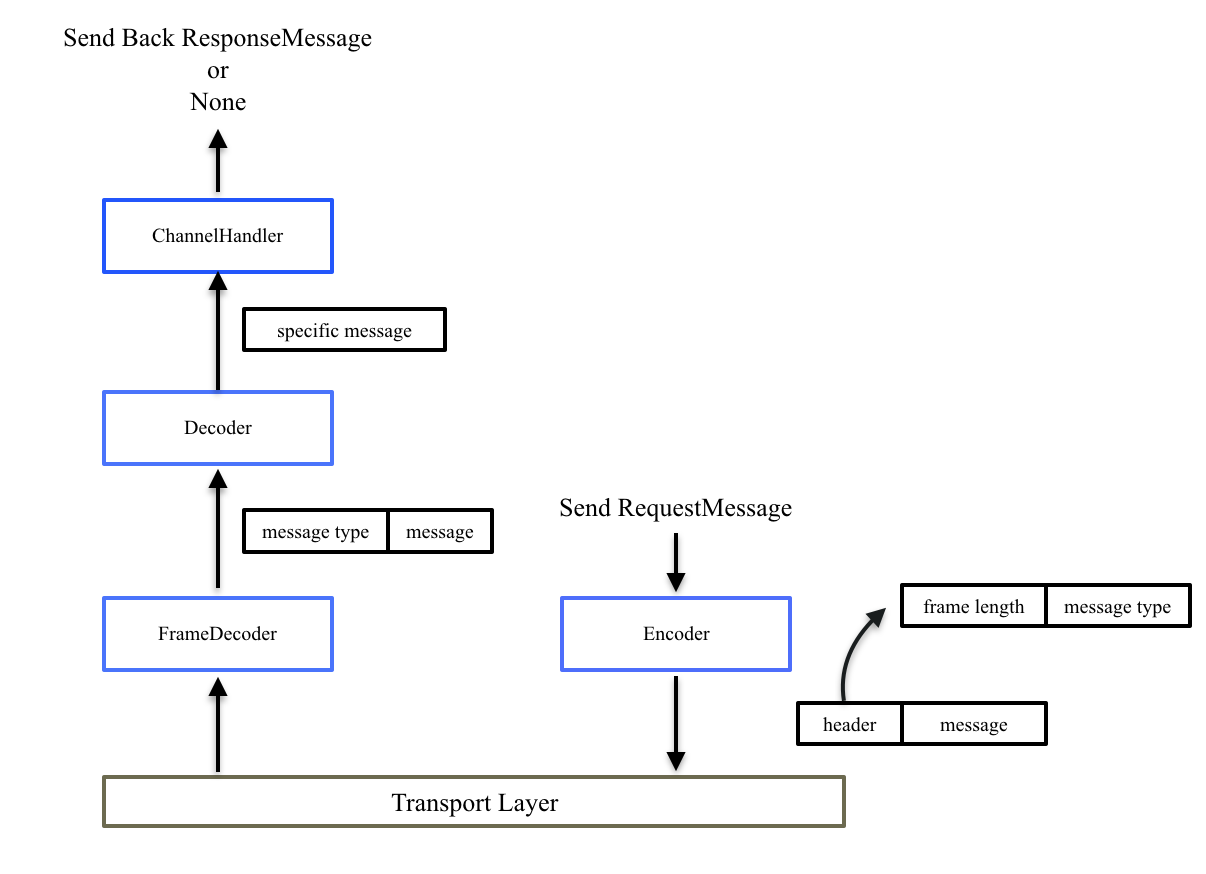
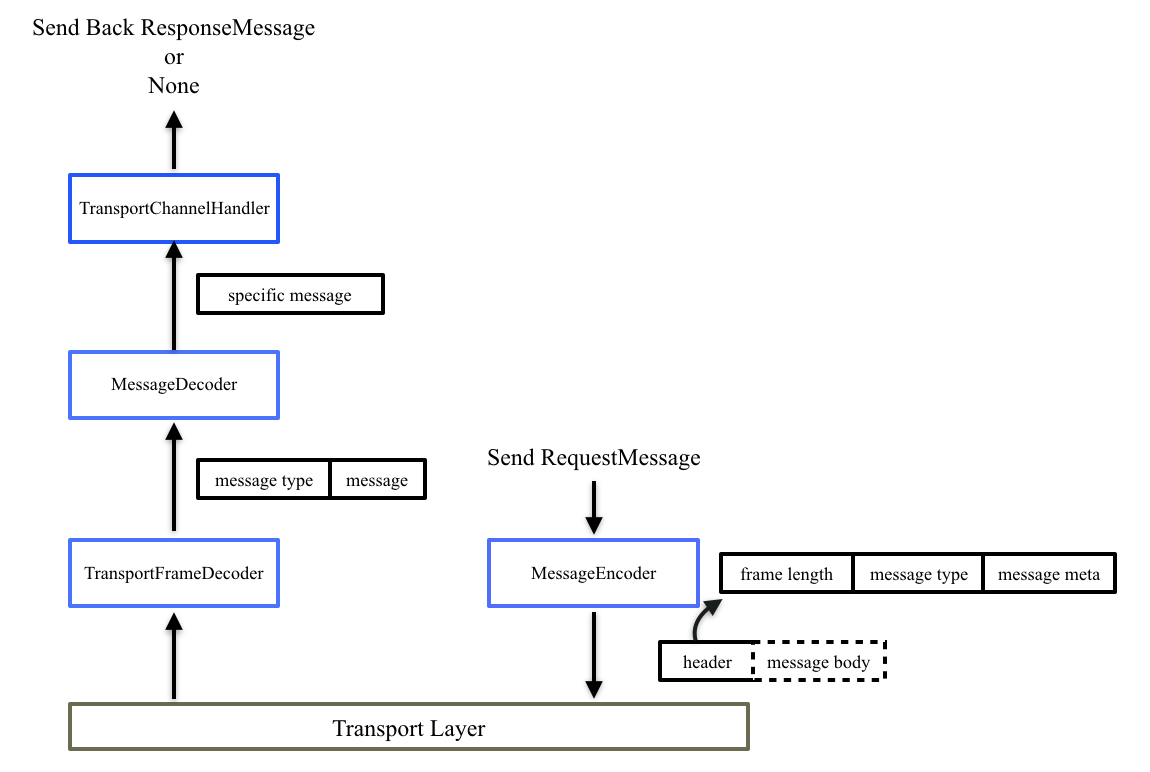
add spark-network

diff --git a/source/_posts/spark-network.md b/source/_posts/spark-network.md
@@ -1,0 +1,129 @@
+---
+title: 深入理解Spark(四)：Spark 底层网络模块
+date: 2016-11-12  22:11:29
+categories: spark
+tags:
+  - spark
+  - network
+  - 大数据
+  - 分布式计算
+---
+
+对于分布式系统来说，网络是最基本的一环，其设计的好坏直接影响到整个分布式系统的稳定性及可用性。为此，Spark专门独立出基础网络模块spark-network，为上层RPC、Shuffle数据传输、RDD Block同步以及资源文件传输等提供可靠的网络服务。在spark-1.6以前，RPC是单独通过akka实现，数据以及文件传输是通过netty实现，然而akka实质上底层也是采用netty实现，对于一个优雅的工程师来说，不会在系统中同时使用具有重复功能的框架，否则会使得系统越来越重，所以自spark-1.6开始，通过netty封装了一套简洁的类似于akka actor模式的RPC接口，逐步抛弃akka这个大框架。从spark-2.0起，所有的网络功能都是通过netty来实现。<!--more-->
+
+## 系统抽象
+
+在介绍spark网络模块前，我们先温习下netty的基本工作流程。无论是服务器还是客户端都会关联一个channel(socket)，channel上会绑定一个pipeline，pipeline绑定若干个handler，用来专门用来处理和业务有关的东西，handler有DownHandler和UpHandler两种，DownHandler用来处理发包，UpHandler用来处理收包，大致过程如下图所示。
+
+<img src="/images/spark-network-netty-overview.png" width="500" height="500" alt="spark-network-netty-overview" align=center />
+
+Spark的底层网络实现也是遵循上图所示流程，其总体实现流程如下图所示。客户端发送请求消息，经过Encoder(一种DownHandler)编码，加上包头信息，再通过网络发给服务端，服务端收到消息后，首先经过TransportFrameDecoder(一种UpHandler)处理粘包拆包，得到消息类型和消息体，然后经过Decoder解析消息类型，得到一个个具体的请求消息，最后由TransportChannelHandler处理具体的请求消息，并根据具体的消息类型判断是否返回一个响应。类似地，响应消息传给客户端也是先经过Encoder编码，客户端先通过TransportFrameDecoder、Decoder解包消息，再通过TransportChannelHandler处理具体的响应消息。
+
+<img src="/images/spark-network-basic.png" width="500" height="500" alt="spark-network-basic" align=center />
+
+整个网络模型非常清晰简单，最核心的当属消息抽象以及如何定义消息传输和处理，即上图中的Message的定义以及编解码传输等，下面详细介绍spark网络模块的消息抽象以及相关handler的定义。
+
+### 消息抽象
+
+总结起来，Spark中定义三种类型的消息：RPC消息、ChunkFetch消息以及Stream消息。Message是这些消息的抽象接口，它定义了三个关键接口，分别得到消息类型、消息体以及判断消息体是否编码在header中，消息体统一由ManagedBuffer表示，ManagedBuffer抽象了JAVA NIO ByteBuffer、Netty ByteBuf以及File Segment，所以无论是ByteBuffer、ByteBuf还是File Segment，都可以表示为ManagedBuffer。如下图列出所有spark中涉及到的具体消息，下面分别详细阐述各种消息。
+
+<img src="/images/spark-network-protocol.png" width="500" height="400" alt="spark-network-protocol" align=center />
+
+RPC消息用于抽象所有spark中涉及到RPC操作时需要传输的消息，通常这类消息很小，一般都是些控制类消息，在spark-1.6以前，RPC都是通过akka来实现的，自spark-1.6开始逐渐把akka剔除，通过netty实现，所以在spark-network公共模块中定义该类消息，其包括RpcRequest、OneWayMessage、RpcResponse以及RpcFailure四种消息。RpcRequest封装RPC请求消息，这类RPC请求是需要得到一个RPC响应的，RpcRequest除了消息体外，还包括一个requestId字段，用于唯一标识一个RPC请求，与RpcRequest对应地，有两种RPC响应消息，RpcResponse是RPC调用正常返回的响应消息，RpcFailure是RPC调用异常返回的响应消息，同样地，它们除了消息体外也包括requestId字段，该字段用于对应RpcRequest。OneWayMessage作为另一种RPC请求消息，但是这类RPC请求是不需要响应的，所以它只包含消息体，不需要诸如requestId等字段来唯一标识，该消息被发送后可不用管它。
+
+ChunkFetch消息用于抽象所有spark中涉及到数据拉取操作时需要传输的消息，它用于shuffle数据以及RDD Block数据传输。在shuffle阶段，reduce task会去拉取map task结果中的对应partition数据，这需要发起一个ChunkFetch；另外，当RDD被缓存后，如果节点上没有所需的RDD Block，则会发起一个ChunkFetch拉取其他节点上的RDD Block。ChunkFetch消息包括ChunkFetchRequest、ChunkFetchSuccess以及ChunkFetchFailure三种消息。ChunkFetchRequest封装ChunkFetch请求消息，其只包括StreamChunkId字段，没有消息体，StreamChunkId包括streamId和chunkIndex两个字段，streamId标识这次chunk fetch，chunkIndex标识fetch的数据块，通常一次fetch可能会fetch多个chunk。ChunkFetchSuccess是成功Fetch后的响应消息，ChunkFetchFailure是Fetch失败的响应消息，它们包含了Fetch的消息体外，还包括StreamChunkId，以对应ChunkFetchRequest。
+
+Stream消息很简单，主要用于driver到executor传输jar、file文件等。Stream消息包括StreamRequest、StreamResponse以及StreamFailure三种消息，其中StreamRequest表示Stream请求消息，只包含一个streamId，标识这个请求。StreamResponse表示Stream成功响应消息，包含streamId以及响应的字节数，并后面跟数据内容，实际使用时，客户端会根据响应中的字节数进一步获取实际内容。StreamFailure表示Stream失败的响应消息，包含streamId以及异常信息。executor需要获取相关jar包或file文件时，会发起一个StreamRequest消息给driver，driver会返回一个StreamResponse，executor根据响应中的字节数来进一步去截获后续数据内容。
+
+### Handler定义
+
+一个message从被发送到被接收需要经过"MessageEncoder->网络->TransportFrameDecoder->MessageDecoder"，下面按照这一过程详细阐述各handler的作用。
+
+一个message进入网络前，需要经过MessageEncoder编码，加上包头信息，以便后续收包时正确粘包拆包。头信息主要是包括三部分：
+* 整个包的长度
+* 消息类型
+* 除消息体外的消息元数据，例如RpcRequest消息的元数据信息包括requestId和消息长度bodysize
+
+<img src="/images/spark-network-messagewithheader.png" width="400" height="200" alt="message-with-header" align=center />
+
+经过上述编码后，一个个Message被编码成一个个MessageWithHeader发送到网络中，接收端收到数据后，首先通过TransportFrameDecoder和MessageDecoder来解码出一个个具体的Message，这里就涉及到粘包拆包问题，这也是为什么在编码阶段在头部加上frame length的原因。TransportFrameDecoder在解码过程中，首先读取8字节的frame length(Long型)，用frame length减去8就是除frame length外其他部分的长度，即为message type、message meta、message body三部分的长度，循环读取直到这个长度，把读到的Bytebuf交给MessagerDecoder，MessagerDecoder首先解析出message type，根据message type去反序列化(实例化)出具体的Message，例如message type如果是RpcRequest，那么则继续解析requestId和body size，根据body size解析后续字节得到body，并构造出RpcRequest对象。反序列化得到的message对象会交给TransportChannelHandler，TransportChannelHandler里封装了TransportRequestHandler和TransportResponseHandler，分别处理RequestMessage和ResponseMessage，在服务端，TransportChannelHandler一般处理RequestMessage，在客户端，TransportChannelHandler一般处理ResponseMessage。
+
+<img src="/images/spark-network-handler.png" width="600" height="300" alt="spark-network-handler" align=center />
+
+## 系统消息流程
+
+根据上述系统抽象可以看出，spark-network将RPC、ChunkFetch以及Stream统一抽象出来，其中任意一种功能都依赖于spark-network的实现，下面分别详细阐述这三种功能的一般使用流程。
+
+### RPC消息处理
+
+客户端发送一个RPC请求消息(RpcRequest或OneWayMessage)，经过编码到网络，解码到服务端的TransportChannelHandler，RPC请求会被交给TransportRequestHandler处理，而TransportRequestHandler中包括了一个RpcHandler专门用来处理RPC请求消息，RpcHandler中有两个关键receive接口，带callback和不带callback参数分别处理RpcRequest和OneWayMessage。
+
+```scala
+public abstract class RpcHandler {
+
+  public abstract void receive(
+      TransportClient client,
+      ByteBuffer message,
+      RpcResponseCallback callback);
+
+  public void receive(TransportClient client, ByteBuffer message) {
+    receive(client, message, ONE_WAY_CALLBACK);
+  }
+
+  ...
+}
+```
+
+当收到RpcRequest时，处理后会在callback中发送响应消息，成功则发送RpcResponse，失败则发送RpcFailure。当收到OneWayMessage时，处理后则直接不用管，客户端也不用关心是否被处理了。
+
+类似地，服务端发送RPC响应消息(RpcResponse或RpcFailure)，也经过编码到网络，解码到客户端的TransportChannelHandler，RPC响应会被交给TransportResponseHandler处理，在客户端发送RpcRequest的时候，会注册一个RpcResponseCallback，通过requestId来标识，这样在收到响应消息的时候，根据响应消息中的requestId就可以取出对应的RpcResponseCallback对响应消息进行处理。
+
+### ChunkFetch消息处理
+
+对于ChunkFetch请求，客户端一般需要首先发送一个RPC请求，告诉服务端需要拉取哪些数据，服务端收到这个RPC请求后，会为客户端准备好需要的数据。上一节也提到，RPC请求会通过RpcHandler来处理，当RpcHandler接收到ChunkFetch的RPC请求消息时，则会为客户端准备好它需要的数据，这些即将要被fetch的数据是通过一个StreamManager来管理的，所以RpcHandler中有一个接口专门获取StreamManager，StreamManager为后续到来的ChunkFetchRequest服务。
+
+```scala
+public abstract class RpcHandler {
+  ...
+
+  public abstract StreamManager getStreamManager();
+
+  ...
+}
+```
+
+RPC请求成功后，服务端表示数据准备好，客户端发送ChunkFetchRequest消息，服务端收到该消息后，最后会交给TransportRequestHandler处理，TransportRequestHandler则根据请求消息中的StreamChunkId，从前面准备好的StreamManager中拿到对应的数据，封装成ChunkFetchSuccess返回给客户端，如果出错或找不到对应的数据，则返回ChunkFetchFailure。
+
+```scala
+public abstract class StreamManager {
+  ...
+
+  public abstract ManagedBuffer getChunk(long streamId, int chunkIndex);
+
+  ...
+}
+```
+
+响应消息到达客户端后，最后会被交给TransportResponseHandler处理，在客户端发送ChunkFetchRequest的时候，会注册一个ChunkReceivedCallback，通过StreamChunkId来标识，这样在收到响应消息的时候，根据响应消息中的StreamChunkId就可以取出对应的ChunkReceivedCallback对响应消息进行处理。
+
+### Stream消息处理
+
+Stream类似于ChunkFetch，主要用于文件服务。客户端一般也需要首先发送一个RPC请求，告诉服务端需要打开一个stream，服务端收到这个RPC请求后，会为客户端打开所需的文件流。
+
+RPC请求成功后，服务端表示数据准备好，客户端发送StreamRequest消息，服务端收到该消息后，最后会交给TransportRequestHandler处理，TransportRequestHandler则根据请求消息中的streamId，从准备好的StreamManager中打开对应的文件流，同时返回StreamResponse给客户端，如果出错或找不到对应的流，则返回ChunkFetchFailure。
+
+```scala
+public abstract class StreamManager {
+  ...
+
+  public ManagedBuffer openStream(String streamId)；
+
+  ...
+}
+```
+
+响应消息到达客户端后，最后会被交给TransportResponseHandler处理，在客户端发送StreamRequest的时候，会注册一个StreamCallback，同时维护一个StreamCallback的队列，这样在收到响应消息的时候，就会从队列中取出StreamCallback去处理截获的数据。注意这里说的是截获的数据，这块有点不一样的是，收到响应消息后，会根据响应消息中数据大小，在TransportFrameDecoder对象中设置截获器Interceptor对象，TransportFrameDecoder在接收数据的时候会被这个截获器Interceptor截取它想要的数据。虽然代码看懂了，但是这里却不知道为啥通过截获的方式去拉取文件流数据。
+
+## 小结
+
+本文主要阐述spark-network公共模块，详细分析spark底层网络编解码以及消息处理的抽象，在后续文章中会更加详细地介绍具体spark中的RPC、ShuffleService、BlockTransformService以及FileServer的实现，这些功能服务都是基于spark-network公共模块来实现的。
